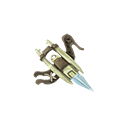
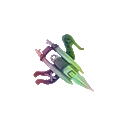
Updated corpse/shoulder/relic art, added beta arts, added alpha/grand finale/conjure blade

Changed region(s): [[0.25, 0.25, 0.75, 0.7188]]

diff --git a/src/main/java/prismaticmod/cards/ConjureBlade2.java b/src/main/java/prismaticmod/cards/ConjureBlade2.java
@@ -1,0 +1,70 @@
+package prismaticmod.cards;
+
+import com.megacrit.cardcrawl.actions.common.MakeTempCardInDrawPileAction;
+import com.megacrit.cardcrawl.actions.utility.ScryAction;
+import com.megacrit.cardcrawl.characters.AbstractPlayer;
+import com.megacrit.cardcrawl.monsters.AbstractMonster;
+import com.megacrit.cardcrawl.ui.panels.EnergyPanel;
+import prismaticmod.util.CardStats;
+import theprismatic.ThePrismatic;
+
+import static com.megacrit.cardcrawl.dungeons.AbstractDungeon.player;
+
+public class ConjureBlade2 extends BaseCard {
+    public static final String ID = makeID("Conjure Blade"); //makeID adds the mod ID, so the final ID will be something like "modID:MyCard"
+    private static final CardStats info = new CardStats(
+            ThePrismatic.Enums.Purple, //The card color. If you're making your own character, it'll look something like this. Otherwise, it'll be CardColor.RED or something similar for a basegame character color.
+            CardType.SKILL, //The type. ATTACK/SKILL/POWER/CURSE/STATUS
+            CardRarity.RARE, //Rarity. BASIC is for starting cards, then there's COMMON/UNCOMMON/RARE, and then SPECIAL and CURSE. SPECIAL is for cards you only get from events. Curse is for curses, except for special curses like Curse of the Bell and Necronomicurse.
+            CardTarget.SELF, //The target. Single target is ENEMY, all enemies is ALL_ENEMY. Look at cards similar to what you want to see what to use.
+            -1 //The card's base cost. -1 is X cost, -2 is no cost for unplayable cards like curses, or Reflex.
+    );
+    //These will be used in the constructor. Technically you can just use the values directly,
+    //but constants at the top of the file are easy to adjust.
+
+    public ConjureBlade2() {
+        super(ID, info); //Pass the required information to the BaseCard constructor.
+        this.cardsToPreview = new Expunger2();
+        this.exhaust = true;
+    }
+
+    @Override
+    public void use(AbstractPlayer p, AbstractMonster m) {
+        if (this.upgraded) {
+            int effect = EnergyPanel.totalCount;
+            if (this.energyOnUse != -1)
+                effect = this.energyOnUse + 1;
+            if (player.hasRelic("Chemical X")) {
+                effect += 2;
+                player.getRelic("Chemical X").flash();
+            }
+            Expunger2 c = new Expunger2();
+            c.setX(effect);
+            addToBot(new MakeTempCardInDrawPileAction(c, 1, true, true));
+            if (!this.freeToPlayOnce)
+                player.energy.use(EnergyPanel.totalCount);
+            addToBot(new ScryAction(this.energyOnUse + 1));
+        } else {
+            int effect = EnergyPanel.totalCount;
+            if (this.energyOnUse != -1)
+                effect = this.energyOnUse;
+            if (player.hasRelic("Chemical X")) {
+                effect += 2;
+                player.getRelic("Chemical X").flash();
+            }
+            Expunger2 c = new Expunger2();
+            c.setX(effect);
+            addToBot(new MakeTempCardInDrawPileAction(c, 1, true, true));
+            if (!this.freeToPlayOnce)
+                player.energy.use(EnergyPanel.totalCount);
+            addToBot(new ScryAction(this.energyOnUse));
+        }
+    }
+    public void upgrade() {
+        if (!this.upgraded) {
+            upgradeName();
+            this.rawDescription = cardStrings.UPGRADE_DESCRIPTION;
+            initializeDescription();
+        }
+    }
+}

diff --git a/src/main/java/prismaticmod/cards/Expunger2.java b/src/main/java/prismaticmod/cards/Expunger2.java
@@ -1,0 +1,60 @@
+package prismaticmod.cards;
+
+import com.megacrit.cardcrawl.actions.AbstractGameAction;
+import com.megacrit.cardcrawl.actions.common.DamageAction;
+import com.megacrit.cardcrawl.actions.defect.ChannelAction;
+import com.megacrit.cardcrawl.actions.watcher.ExpungeVFXAction;
+import com.megacrit.cardcrawl.cards.AbstractCard;
+import com.megacrit.cardcrawl.cards.DamageInfo;
+import com.megacrit.cardcrawl.cards.DescriptionLine;
+import com.megacrit.cardcrawl.characters.AbstractPlayer;
+import com.megacrit.cardcrawl.monsters.AbstractMonster;
+import com.megacrit.cardcrawl.orbs.Dark;
+import prismaticmod.util.CardStats;
+import theprismatic.ThePrismatic;
+
+import java.util.ArrayList;
+
+public class Expunger2 extends BaseCard {
+    public static final String ID = makeID("Expunger"); //makeID adds the mod ID, so the final ID will be something like "modID:MyCard"
+    private static final CardStats info = new CardStats(
+            ThePrismatic.Enums.Colorless, //The card color. If you're making your own character, it'll look something like this. Otherwise, it'll be CardColor.RED or something similar for a base game character color.
+            CardType.ATTACK, //The type. ATTACK/SKILL/POWER/CURSE/STATUS
+            CardRarity.SPECIAL, //Rarity. BASIC is for starting cards, then there's COMMON/UNCOMMON/RARE, and then SPECIAL and CURSE. SPECIAL is for cards you only get from events. Curse is for curses, except for special curses like Curse of the Bell and Necronomicurse.
+            CardTarget.ENEMY, //The target. Single target is ENEMY, all enemies is ALL_ENEMY. Look at cards similar to what you want to see what to use.
+            1 //The card's base cost. -1 is X cost, -2 is no cost for unplayable cards like curses, or Reflex.
+    );
+    //These will be used in the constructor. Technically you can just use the values directly,
+    //but constants at the top of the file are easy to adjust.
+
+    private static final int DAMAGE = 9;
+    private static final int UPG_DAMAGE = 6;
+
+    public Expunger2() {
+        super(ID, info); //Pass the required information to the BaseCard constructor.
+        setDamage(DAMAGE, UPG_DAMAGE); //Sets the card's damage and how much it changes when upgraded.
+    }
+    public void setX(int amount) {
+        this.magicNumber = amount;
+        if (this.upgraded)
+            this.magicNumber++;
+        this.baseMagicNumber = this.magicNumber;
+        this.rawDescription = (this.baseMagicNumber == 1) ? cardStrings.EXTENDED_DESCRIPTION[1] : cardStrings.EXTENDED_DESCRIPTION[0];
+        initializeDescription();
+    }
+    @Override
+    public void use(AbstractPlayer p, AbstractMonster m) {
+        for (int i = 0; i < this.magicNumber; i++) {
+            addToBot(new ExpungeVFXAction(m));
+            addToBot(new DamageAction(m, new DamageInfo(p, this.damage, this.damageTypeForTurn), AbstractGameAction.AttackEffect.NONE));
+            addToBot(new ChannelAction(new Dark()));
+        }
+    }
+    public AbstractCard makeStatEquivalentCopy() {
+        AbstractCard card = super.makeStatEquivalentCopy();
+        card.baseMagicNumber = this.baseMagicNumber;
+        card.magicNumber = this.magicNumber;
+        card.description = (ArrayList<DescriptionLine>)this.description.clone();
+        return card;
+    }
+}

diff --git a/src/main/java/prismaticmod/cards/GrandFinale2.java b/src/main/java/prismaticmod/cards/GrandFinale2.java
@@ -1,0 +1,61 @@
+package prismaticmod.cards;
+
+import com.megacrit.cardcrawl.actions.AbstractGameAction;
+import com.megacrit.cardcrawl.actions.animations.VFXAction;
+import com.megacrit.cardcrawl.actions.common.DamageAllEnemiesAction;
+import com.megacrit.cardcrawl.cards.AbstractCard;
+import com.megacrit.cardcrawl.characters.AbstractPlayer;
+import com.megacrit.cardcrawl.core.Settings;
+import com.megacrit.cardcrawl.dungeons.AbstractDungeon;
+import com.megacrit.cardcrawl.monsters.AbstractMonster;
+import com.megacrit.cardcrawl.vfx.combat.GrandFinalEffect;
+import prismaticmod.util.CardStats;
+import theprismatic.ThePrismatic;
+
+public class GrandFinale2 extends BaseCard {
+    public static final String ID = makeID("Grand Finale"); //makeID adds the mod ID, so the final ID will be something like "modID:MyCard"
+    private static final CardStats info = new CardStats(
+            ThePrismatic.Enums.Green, //The card color. If you're making your own character, it'll look something like this. Otherwise, it'll be CardColor.RED or something similar for a base game character color.
+            CardType.ATTACK, //The type. ATTACK/SKILL/POWER/CURSE/STATUS
+            CardRarity.RARE, //Rarity. BASIC is for starting cards, then there's COMMON/UNCOMMON/RARE, and then SPECIAL and CURSE. SPECIAL is for cards you only get from events. Curse is for curses, except for special curses like Curse of the Bell and Necronomicurse.
+            CardTarget.ALL_ENEMY, //The target. Single target is ENEMY, all enemies is ALL_ENEMY. Look at cards similar to what you want to see what to use.
+            0 //The card's base cost. -1 is X cost, -2 is no cost for unplayable cards like curses, or Reflex.
+    );
+    //These will be used in the constructor. Technically you can just use the values directly,
+    //but constants at the top of the file are easy to adjust.
+
+    private static final int DAMAGE = 40;
+    private static final int UPG_DAMAGE = 10;
+
+    public GrandFinale2() {
+        super(ID, info); //Pass the required information to the BaseCard constructor.
+        setDamage(DAMAGE, UPG_DAMAGE); //Sets the card's damage and how much it changes when upgraded.
+        this.selfRetain = true;
+        this.isMultiDamage = true;
+    }
+    @Override
+    public void use(AbstractPlayer p, AbstractMonster m) {
+        if (Settings.FAST_MODE) {
+            addToBot(new VFXAction(new GrandFinalEffect(), 0.7F));
+        } else {
+            addToBot(new VFXAction(new GrandFinalEffect(), 1.0F));
+        }
+        addToBot(new DamageAllEnemiesAction(p, this.multiDamage, this.damageTypeForTurn, AbstractGameAction.AttackEffect.SLASH_HEAVY));
+    }
+    public void triggerOnGlowCheck() {
+        this.glowColor = AbstractCard.BLUE_BORDER_GLOW_COLOR.cpy();
+        if (AbstractDungeon.player.drawPile.isEmpty())
+            this.glowColor = AbstractCard.GOLD_BORDER_GLOW_COLOR.cpy();
+    }
+
+    public boolean canUse(AbstractPlayer p, AbstractMonster m) {
+        boolean canUse = super.canUse(p, m);
+        if (!canUse)
+            return false;
+        if (!p.drawPile.isEmpty()) {
+            this.cantUseMessage = cardStrings.EXTENDED_DESCRIPTION[0];
+            return false;
+        }
+        return true;
+    }
+}

diff --git a/src/main/java/prismaticmod/cards/Alpha2.java b/src/main/java/prismaticmod/cards/Alpha2.java
@@ -1,0 +1,45 @@
+package prismaticmod.cards;
+
+import com.megacrit.cardcrawl.actions.common.MakeTempCardInDrawPileAction;
+import com.megacrit.cardcrawl.actions.utility.ScryAction;
+import com.megacrit.cardcrawl.characters.AbstractPlayer;
+import com.megacrit.cardcrawl.monsters.AbstractMonster;
+import prismaticmod.util.CardStats;
+import theprismatic.ThePrismatic;
+
+public class Alpha2 extends BaseCard {
+    public static final String ID = makeID("Alpha"); //makeID adds the mod ID, so the final ID will be something like "modID:MyCard"
+    private static final CardStats info = new CardStats(
+            ThePrismatic.Enums.Purple, //The card color. If you're making your own character, it'll look something like this. Otherwise, it'll be CardColor.RED or something similar for a basegame character color.
+            CardType.SKILL, //The type. ATTACK/SKILL/POWER/CURSE/STATUS
+            CardRarity.RARE, //Rarity. BASIC is for starting cards, then there's COMMON/UNCOMMON/RARE, and then SPECIAL and CURSE. SPECIAL is for cards you only get from events. Curse is for curses, except for special curses like Curse of the Bell and Necronomicurse.
+            CardTarget.SELF, //The target. Single target is ENEMY, all enemies is ALL_ENEMY. Look at cards similar to what you want to see what to use.
+            1 //The card's base cost. -1 is X cost, -2 is no cost for unplayable cards like curses, or Reflex.
+    );
+    //These will be used in the constructor. Technically you can just use the values directly,
+    //but constants at the top of the file are easy to adjust.
+
+    private static final int baseMagicNumber = 4;
+    private static final int UPG_Number = 0;
+
+    public Alpha2() {
+        super(ID, info); //Pass the required information to the BaseCard constructor.
+        setMagic(baseMagicNumber, UPG_Number);
+        this.cardsToPreview = new Beta2();
+        this.exhaust = true;
+    }
+
+    @Override
+    public void use(AbstractPlayer p, AbstractMonster m) {
+        addToBot(new MakeTempCardInDrawPileAction(this.cardsToPreview.makeStatEquivalentCopy(), 1, true, true));
+        addToBot(new ScryAction(magicNumber));
+    }
+    public void upgrade() {
+        if (!this.upgraded) {
+            upgradeName();
+            this.isInnate = true;
+            this.rawDescription = cardStrings.UPGRADE_DESCRIPTION;
+            initializeDescription();
+        }
+    }
+}

diff --git a/src/main/java/prismaticmod/cards/Beta2.java b/src/main/java/prismaticmod/cards/Beta2.java
@@ -1,0 +1,44 @@
+package prismaticmod.cards;
+
+import com.megacrit.cardcrawl.actions.common.MakeTempCardInDrawPileAction;
+import com.megacrit.cardcrawl.actions.utility.ScryAction;
+import com.megacrit.cardcrawl.cards.tempCards.Omega;
+import com.megacrit.cardcrawl.characters.AbstractPlayer;
+import com.megacrit.cardcrawl.monsters.AbstractMonster;
+import prismaticmod.util.CardStats;
+import theprismatic.ThePrismatic;
+
+public class Beta2 extends BaseCard {
+    public static final String ID = makeID("Beta"); //makeID adds the mod ID, so the final ID will be something like "modID:MyCard"
+    private static final CardStats info = new CardStats(
+            ThePrismatic.Enums.Colorless, //The card color. If you're making your own character, it'll look something like this. Otherwise, it'll be CardColor.RED or something similar for a basegame character color.
+            CardType.SKILL, //The type. ATTACK/SKILL/POWER/CURSE/STATUS
+            CardRarity.SPECIAL, //Rarity. BASIC is for starting cards, then there's COMMON/UNCOMMON/RARE, and then SPECIAL and CURSE. SPECIAL is for cards you only get from events. Curse is for curses, except for special curses like Curse of the Bell and Necronomicurse.
+            CardTarget.SELF, //The target. Single target is ENEMY, all enemies is ALL_ENEMY. Look at cards similar to what you want to see what to use.
+            2 //The card's base cost. -1 is X cost, -2 is no cost for unplayable cards like curses, or Reflex.
+    );
+    //These will be used in the constructor. Technically you can just use the values directly,
+    //but constants at the top of the file are easy to adjust.
+
+    private static final int baseMagicNumber = 6;
+    private static final int UPG_Number = 0;
+
+    public Beta2() {
+        super(ID, info); //Pass the required information to the BaseCard constructor.
+        setMagic(baseMagicNumber, UPG_Number);
+        this.cardsToPreview = new Omega();
+        this.exhaust = true;
+    }
+
+    @Override
+    public void use(AbstractPlayer p, AbstractMonster m) {
+        addToBot(new MakeTempCardInDrawPileAction(this.cardsToPreview.makeStatEquivalentCopy(), 1, true, true));
+        addToBot(new ScryAction(magicNumber));
+    }
+    public void upgrade() {
+        if (!this.upgraded) {
+            upgradeName();
+            this.upgradeBaseCost(1);
+        }
+    }
+}

diff --git a/src/main/java/theprismatic/ThePrismatic.java b/src/main/java/theprismatic/ThePrismatic.java
@@ -211,7 +211,7 @@ public class ThePrismatic extends CustomPlayer {
         tmpPool.add(new FlyingKnee());
         tmpPool.add(new Footwork());
         tmpPool.add(new GlassKnife());
-        //tmpPool.add(new GrandFinale());
+        tmpPool.add(new GrandFinale2());
         //tmpPool.add(new HeelHook());
         tmpPool.add(new InfiniteBlades());
         tmpPool.add(new LegSweep());
@@ -314,7 +314,7 @@ public class ThePrismatic extends CustomPlayer {
         tmpPool.add(new Equilibrium());
         tmpPool.add(new WhiteNoise2());
         tmpPool.add(new Zap());
-        //tmpPool.add(new Alpha());
+        tmpPool.add(new Alpha2());
         tmpPool.add(new BattleHymn());
         tmpPool.add(new Blasphemy());
         tmpPool.add(new BowlingBash());
@@ -322,7 +322,7 @@ public class ThePrismatic extends CustomPlayer {
         tmpPool.add(new CarveReality());
         tmpPool.add(new Collect());
         tmpPool.add(new Conclude());
-        //tmpPool.add(new ConjureBlade());
+        tmpPool.add(new ConjureBlade2());
         tmpPool.add(new Consecrate());
         tmpPool.add(new Crescendo());
         tmpPool.add(new CrushJoints());
@@ -347,7 +347,7 @@ public class ThePrismatic extends CustomPlayer {
         tmpPool.add(new Halt());
         tmpPool.add(new Indignation());
         tmpPool.add(new InnerPeace());
-        //tmpPool.add(new Judgement());
+        tmpPool.add(new Judgement());
         tmpPool.add(new JustLucky());
         tmpPool.add(new LessonLearned());
         tmpPool.add(new LikeWater2());

diff --git a/src/main/java/prismaticmod/relics/CeramicFish2.java b/src/main/java/prismaticmod/relics/CeramicFish2.java
@@ -15,7 +15,7 @@ public class CeramicFish2 extends BaseRelic implements OnSkipCardRelic {
     public static final String ID = makeID(NAME); //This adds the mod's prefix to the relic ID, resulting in modID:MyRelic
     private static final RelicTier RARITY = RelicTier.COMMON; //The relic's rarity.
     private static final LandingSound SOUND = LandingSound.FLAT; //The sound played when the relic is clicked.
-    private static final int goldCount = 20;
+    private static final int goldCount = 25;
 
     public CeramicFish2() {
         super(ID, NAME, ThePrismatic.Enums.CARD_COLOR, RARITY, SOUND);

diff --git a/src/main/java/prismaticmod/cards/DoomWillBloom.java b/src/main/java/prismaticmod/cards/DoomWillBloom.java
@@ -24,7 +24,7 @@ public class DoomWillBloom extends BaseCard {
     );
     //These will be used in the constructor. Technically you can just use the values directly,
     //but constants at the top of the file are easy to adjust.
-    private static final int baseMagicNumber = 12;
+    private static final int baseMagicNumber = 10;
     private static final int UPG_Number = 4;
 
     public DoomWillBloom() {
